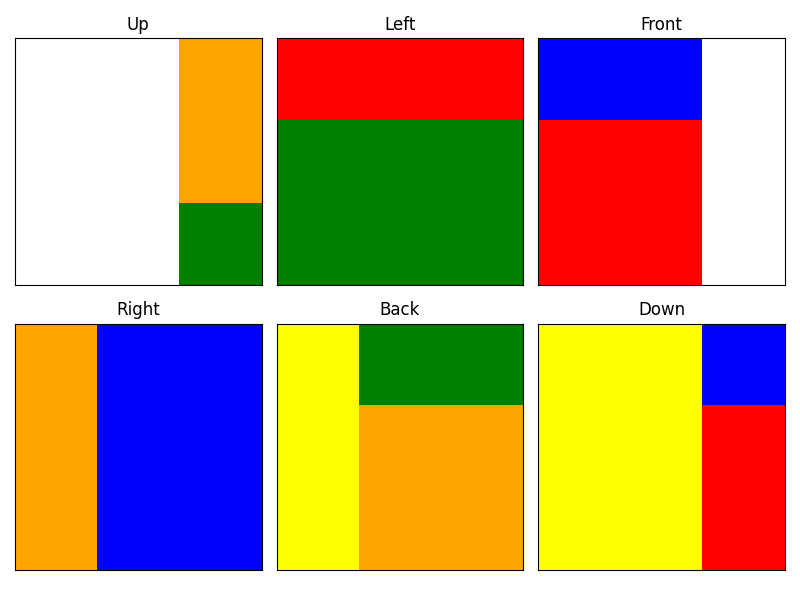
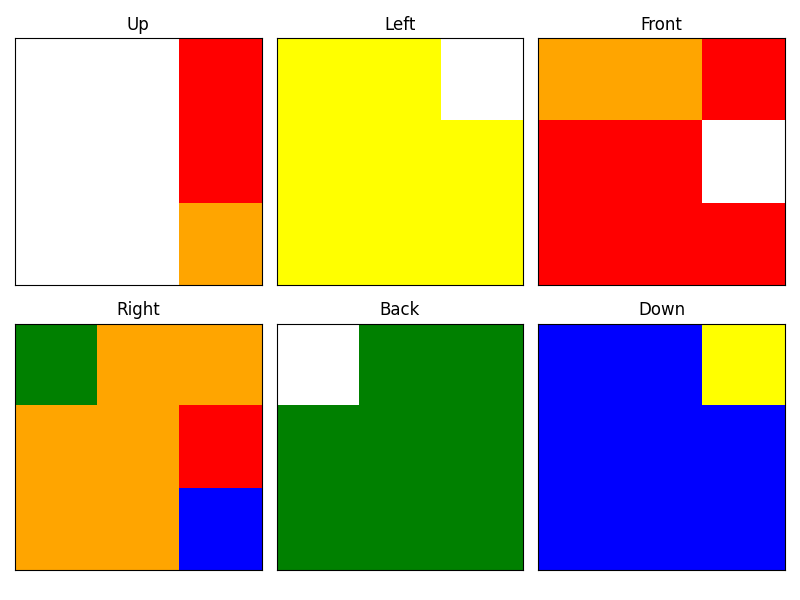
Checkpoint before assistant change: Improve Rubik's Cube color scheme by fixing rotation logic and removing redundant code.
Replit-Commit-Author: Assistant

diff --git a/main.py b/main.py
@@ -41,12 +41,8 @@ class SimpleRubiksCube:
             8: 0, 9: 0,    # U, U' -> 上面(0)
             10: 5, 11: 5   # D, D' -> 下面(5)
         }
-        # 约定：对于L和R动作，偶数是顺时针（k=1），奇数是逆时针（k=3）
-        # 其他动作则相反
-        if action in [4, 5, 6, 7]:  # L, L', R, R'
-            direction = 1 if action % 2 == 0 else 3
-        else:
-            direction = 3 if action % 2 == 0 else 1
+        # 约定：偶数动作用顺时针旋转90°（np.rot90中 k=1），奇数动作用逆时针旋转90°（k=3）
+        direction = 1 if action % 2 == 0 else 3
         face_idx = action_to_face[action]
 
         # 旋转该面
@@ -59,14 +55,14 @@ class SimpleRubiksCube:
             0: [(2, 0, False), (3, 0, False), (4, 0, False), (1, 0, False)],
             # 下面 (5)旋转影响：前(2)、左(1)、后(4)、右(3) 的底行
             5: [(2, 2, False), (1, 2, False), (4, 2, False), (3, 2, False)],
-            # 前面 (2)旋转影响：上(0)的底行、左(1)的右列、下(5)的顶行、右(3)的左列
-            2: [(0, 2, False), (1, 2, True), (5, 0, True), (3, 0, False)],
-            # 后面 (4)旋转影响：上(0)的顶行、左(1)的左列、下(5)的底行、右(3)的右列
-            4: [(0, 0, True), (1, 0, True), (5, 2, False), (3, 2, False)],
-            # 左面 (1)旋转影响：上(0)的左列、前(2)的左列、下(5)的左列、后(4)的右列
-            1: [(0, 0, False), (2, 0, False), (5, 0, False), (4, 2, True)],
-            # 右面 (3)旋转影响：前(2)的右列、下(5)的右列、后(4)的左列、上(0)的右列
-            3: [(2, 2, False), (5, 2, False), (4, 0, True), (0, 2, False)]
+            # 前面 (2)旋转影响：上(0)的底行、右(3)的左列（需反转）、下(5)的顶行（需反转）、左(1)的右列
+            2: [(0, 2, False), (3, 0, True), (5, 0, True), (1, 2, False)],
+            # 后面 (4)旋转影响：上(0)的顶行（需反转）、左(1)的左列、下(5)的底行、右(3)的右列（需反转）
+            4: [(0, 0, True), (1, 0, False), (5, 2, False), (3, 2, True)],
+            # 左面 (1)旋转影响：上(0)的左列、前(2)的左列、下(5)的左列（需反转）、后(4)的右列（需反转）
+            1: [(0, 0, False), (2, 0, False), (5, 0, True), (4, 2, True)],
+            # 右面 (3)旋转影响：上(0)的右列（需反转）、后(4)的左列（需反转）、下(5)的右列、前(2)的右列
+            3: [(0, 2, True), (4, 0, True), (5, 2, False), (2, 2, False)]
         }
         if face_idx not in adjacent_faces:
             return
@@ -100,21 +96,10 @@ class SimpleRubiksCube:
             else:
                 self.cube[adj_face, :, pos] = strip
 
-    def convert_prime_move(self, move):
-        """
-        将带'的操作转换为执行3次基本操作
-        """
-        if len(move) == 2 and move[1] == "'":
-            base = move[0]
-            if base in "RULDF":
-                return [base] * 3
-        return [move]
-
     def apply_algorithm(self, algorithm_str):
         """
         根据空格分隔的公式字符串依次应用动作，
         支持类似 "R U R' U'" 以及 "R2"（代表执行两次 R 动作）的写法。
-        对于R、U、L、D、F的反向操作('），会转换为执行3次基本操作。
         """
         moves = algorithm_str.split()
         for move in moves:
@@ -123,9 +108,7 @@ class SimpleRubiksCube:
                 self.apply_move(base)
                 self.apply_move(base)
             else:
-                converted_moves = self.convert_prime_move(move)
-                for m in converted_moves:
-                    self.apply_move(m)
+                self.apply_move(move)
 
     def get_cube(self):
         return self.cube
@@ -137,8 +120,8 @@ def plot_cube(cube, save_path="scrambled_cube.png"):
     """
     # 定义面名顺序：依据初始化顺序 0: 上, 1: 左, 2: 前, 3: 右, 4: 后, 5: 下
     face_names = ["Up", "Left", "Front", "Right", "Back", "Down"]
-    # 定义颜色映射（与魔方状态数值对应：0上白、1左绿、2前红、3右蓝、4后橙、5下黄）
-    cmap = colors.ListedColormap(['white', 'green', 'red', 'blue', 'orange', 'yellow'])
+    # 定义颜色映射（与魔方状态数值对应）
+    cmap = colors.ListedColormap(['white', 'yellow', 'red', 'orange', 'green', 'blue'])
 
     fig, axs = plt.subplots(2, 3, figsize=(8, 6))
     axs = axs.flatten()
@@ -159,7 +142,7 @@ def main():
     # 创建魔方实例（初始为已解决状态）
     cube = SimpleRubiksCube()
     # 定义打乱公式，例如 "R U R' U'"
-    algorithm = "U R"
+    algorithm = "R U R' U'"
     print("应用公式:", algorithm)
     cube.apply_algorithm(algorithm)
 
